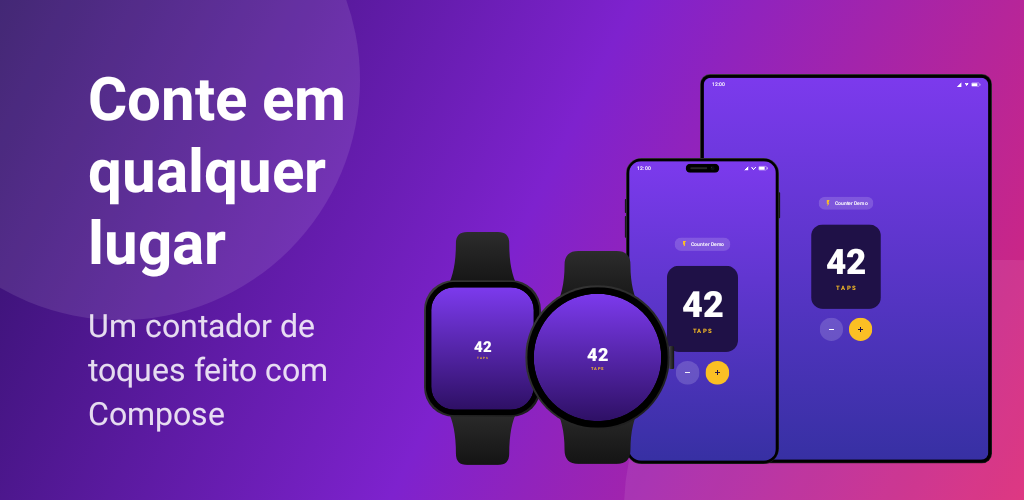
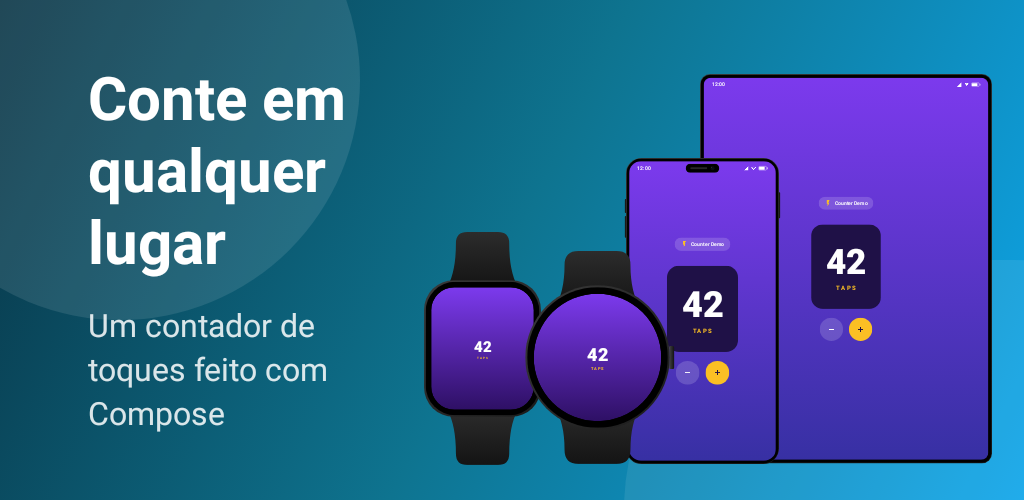
Use a teal-cyan feature graphic background for better contrast with the purple app

diff --git a/example/src/main/kotlin/dev/lucianosantos/storescreenshots/example/FeatureGraphicBanner.kt b/example/src/main/kotlin/dev/lucianosantos/storescreenshots/example/FeatureGraphicBanner.kt
@@ -40,7 +40,7 @@ fun FeatureGraphicBanner() {
             .fillMaxSize()
             .background(
                 Brush.linearGradient(
-                    listOf(Color(0xFF2E1065), Color(0xFF7E22CE), Color(0xFFDB2777))
+                    listOf(Color(0xFF083344), Color(0xFF0E7490), Color(0xFF0EA5E9))
                 )
             )
     ) {